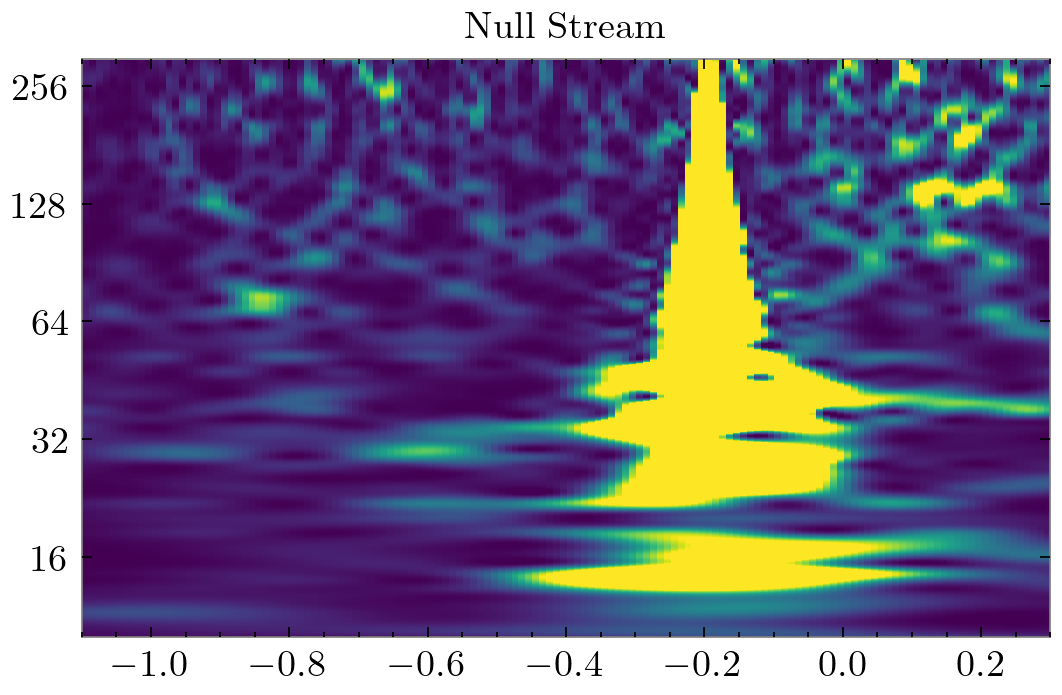
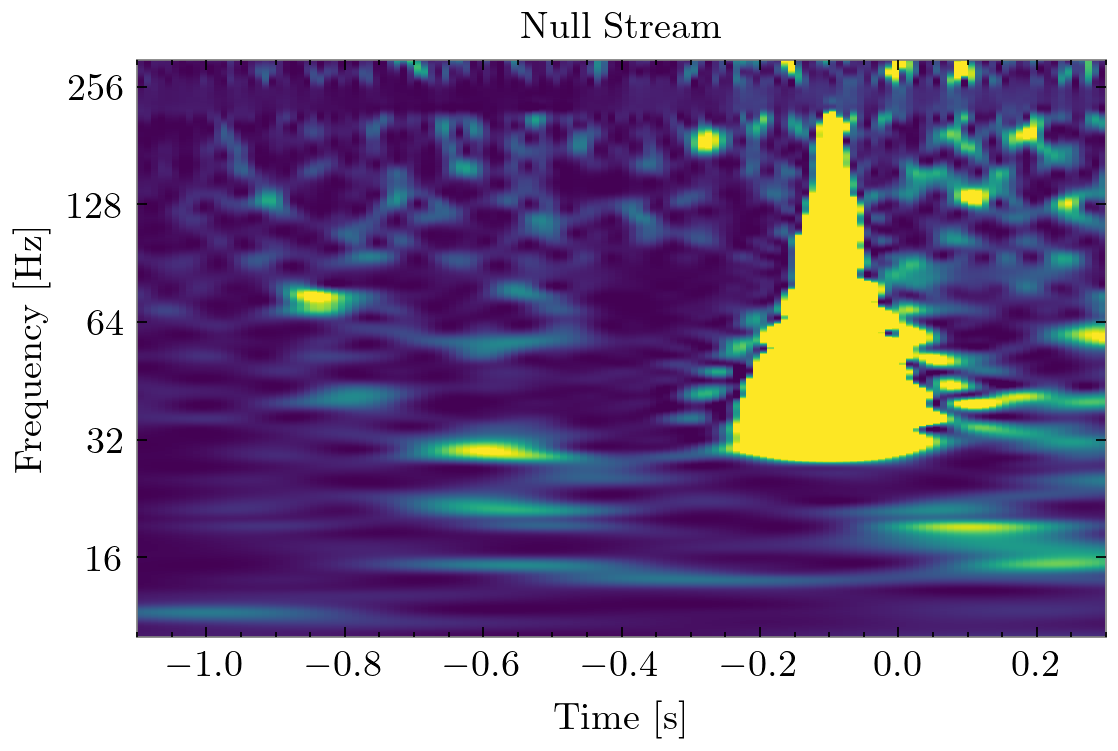
Adjust labelling

diff --git a/plotting_directory/nijntje_flowchart/three_chanels_panel.py b/plotting_directory/nijntje_flowchart/three_chanels_panel.py
@@ -42,12 +42,12 @@ args = parser.parse_args()
 bilby.core.utils.setup_logger(outdir=args.outdir, label=args.label)
 
 plot_colorbar = False
-plot_tcp = False
-plot_null_stream = False
-plot_timeseries = False
+plot_tcp = True
+plot_null_stream = True
+plot_timeseries = True
 gengli_glitch = True
 plot_signal_only_qscan = False
-make_likelihood_curve = True
+make_likelihood_curve = False
 
 
 
@@ -126,7 +126,7 @@ if make_likelihood_curve:
 
     fig, ax = plt.subplots(1, 1, figsize = (4,3))
     ax.plot(xvals, collect_likelihoods, color = 'black', lw = 1.5)
-    ax.set_xlabel('Parameter')
+    ax.set_xlabel('GW Parameter')
     ax.set_title('Measurement', fontsize = 11)
 
     ax.set_ylabel('PDF')
@@ -148,9 +148,10 @@ if gengli_glitch:
     generator = gengli.glitch_generator('L1')
     l1_to_ET_factor = 1
     glitch_snr = args.glitch_snr / l1_to_ET_factor #args.glitch_snr_ratio*np.abs(ifos[0].meta_data['matched_filter_SNR'])
-    glitch_snr = 3.5
+    glitch_snr_timeseries = 3.5
+
     args.gengli_seed = 108
-    _glitch = generator.get_glitch(seed = args.gengli_seed, snr = glitch_snr, srate=sampling_frequency)
+    _glitch = generator.get_glitch(seed = args.gengli_seed, snr = 12, srate=sampling_frequency)
 
     glitch = utils.center_maxima(_glitch)
     
@@ -280,6 +281,8 @@ if plot_null_stream:
 
     ax.grid()
     ax.set_title('Null Stream', fontsize = 11)
+    ax.set_xlabel('Time [s]')
+    ax.set_ylabel('Frequency [Hz]')
     ax.set_ylim(10, 300)
     ax.set_xlim(-1.1, 0.3)
     if plot_colorbar:
@@ -307,7 +310,7 @@ if plot_timeseries:
     
     green = (0.24, 0.9, 0.44)	#'green' #(0.62, 0.5, 0.5, 1.0)
 
-    ax.plot(glitch_delta_t_array+roll, glitch, color = 'black', ls = '--', lw = 1.5)
+    ax.plot(glitch_delta_t_array+roll, glitch/4, color = 'black', ls = '--', lw = 1.5)
 
     total_width = 0.3 + 0.1
 
